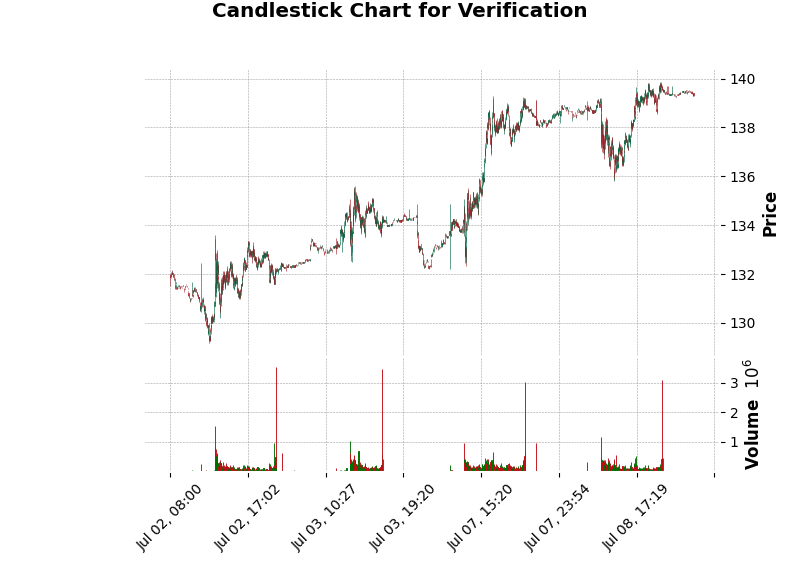
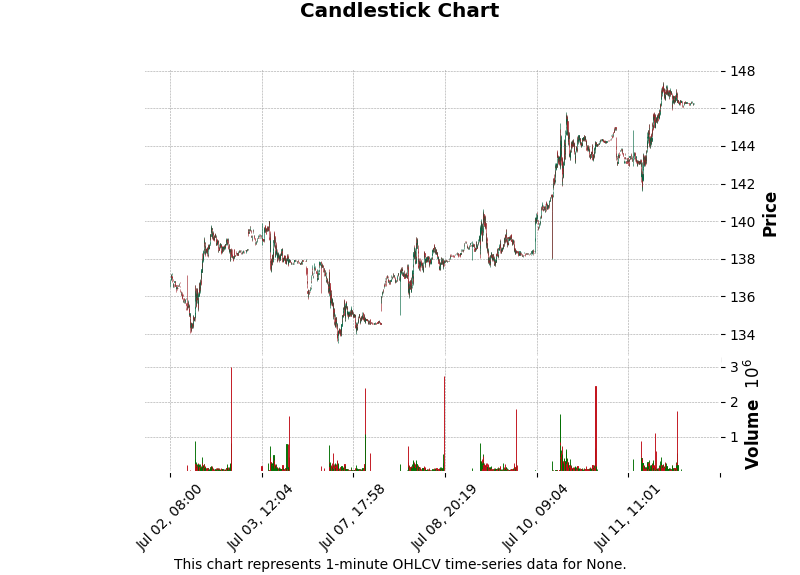
candle stick chart generation-enhanced

diff --git a/main.py b/main.py
@@ -7,6 +7,8 @@ from langchain_ollama import OllamaLLM
 from langchain.chains.sql_database.query import create_sql_query_chain
 from langchain.prompts import PromptTemplate
 import mplfinance as mpf
+import re
+
 
 # Setup LLM (Ollama with LLaMA3)
 llm = OllamaLLM(model="llama3")
@@ -20,40 +22,43 @@ engine = create_engine(DB_URI)
 SQL_PROMPT = PromptTemplate(
     input_variables=["input", "top_k", "table_info"],
     template="""You are a PostgreSQL expert. Given a natural language query about time-series financial data, generate a SQL query for a table named 'ohlcv_1m' with columns: bucket (timestamptz, start of 1-minute window), symbol (text), open (double precision), high (double precision), low (double precision), close (double precision), volume (double precision). The query should:
-    - Select bucket, open, high, low, close, volume.
-    - Filter by symbol (e.g., 'PLTR') when specified.
-    - Handle date ranges:
-        - For a single date (e.g., '2025-08-07'), include data from 00:00:00 to 23:59:59.999 on that date.
-        - For ranges like '5 days before and after', use PostgreSQL interval syntax with timestamptz.
-    - Order results by bucket ascending.
-    - Use the 'ticks' database.
-    - Limit to {top_k} rows if applicable.
-    - Assume the table contains 1-minute OHLC data, so no interval column exists.
+- Select bucket, open, high, low, close, volume.
+- Filter by symbol (e.g., 'PLTR') when specified.
+- Handle date ranges:
+    - For a single date (e.g., '2025-08-07'), include data from 00:00:00 to 23:59:59.999 on that date.
+    - For ranges like '5 days before and after', use PostgreSQL interval syntax with timestamptz.
+- Order results by bucket ascending.
+- Use the 'ticks' database.
+- Limit to {top_k} rows if applicable.
+- Assume the table contains 1-minute OHLC data, so no interval column exists.
 
-    Table info: {table_info}
+Table info: {table_info}
 
-    Query: {input}
+Query: {input}
 
-    Generate the SQL query and return only the SQL (no explanations or markdown).
+Generate the SQL query and return only the SQL (no explanations or markdown).
+Never use parameters or placeholders like $1, $2, :symbol, or :date. Always substitute actual values for symbol and date directly in the SQL. For queries like "5 days before and after", use INTERVAL arithmetic with timestamptz, e.g.:
+AND bucket >= '<date>'::timestamptz - INTERVAL '5 days'
+AND bucket < '<date>'::timestamptz + INTERVAL '6 days'
 
-    Example input: "show me data for 2025-08-07 for PLTR"
-    Example output: 
-    SELECT bucket, open, high, low, close, volume 
-    FROM ohlcv_1m 
-    WHERE symbol = 'PLTR' 
-    AND bucket >= '2025-08-07'::timestamptz 
-    AND bucket < '2025-08-08'::timestamptz 
-    ORDER BY bucket;
+Example input: "show me data for 2025-08-07 for PLTR"
+Example output: 
+SELECT bucket, open, high, low, close, volume 
+FROM ohlcv_1m 
+WHERE symbol = 'PLTR' 
+AND bucket >= '2025-08-07'::timestamptz 
+AND bucket < '2025-08-08'::timestamptz 
+ORDER BY bucket;
 
-    Example input: "Return PLTR data 5 days before and after 2025-09-10 for 1 min candles"
-    Example output: 
-    SELECT bucket, open, high, low, close, volume 
-    FROM ohlcv_1m 
-    WHERE symbol = 'PLTR' 
-    AND bucket >= '2025-09-10'::timestamptz - INTERVAL '5 days' 
-    AND bucket < '2025-09-10'::timestamptz + INTERVAL '6 days' 
-    ORDER BY bucket;
-    """
+Example input: "Return PLTR data 5 days before and after 2025-09-10 for 1 min candles"
+Example output: 
+SELECT bucket, open, high, low, close, volume 
+FROM ohlcv_1m 
+WHERE symbol = 'PLTR' 
+AND bucket >= '2025-09-10'::timestamptz - INTERVAL '5 days' 
+AND bucket < '2025-09-10'::timestamptz + INTERVAL '6 days' 
+ORDER BY bucket;
+"""
 )
 
 # Chain to generate SQL from natural language
@@ -61,39 +66,44 @@ sql_chain = create_sql_query_chain(llm, db, prompt=SQL_PROMPT)
 
 # Function to clean up generated SQL (removes markdown/code blocks if present)
 def clean_sql(sql_text):
-    if sql_text.startswith("```sql"):
-        sql_text = sql_text.split("```sql")[1]
-    if sql_text.endswith("```"):
-        sql_text = sql_text.split("```")[0]
-    sql_text = sql_text.strip()
-    # Remove LIMIT clause if present
-    import re
-    sql_text = re.sub(r'LIMIT\s+\d+\s*;?', '', sql_text, flags=re.IGNORECASE)
+    # Remove markdown/code blocks if present
+    sql_text = re.sub(r"```sql|```", "", sql_text, flags=re.IGNORECASE).strip()
+    # Remove any prefix before the actual SQL (e.g., "Generated SQL: ...")
+    # Find the first occurrence of SELECT and take everything from there
+    match = re.search(r"(SELECT[\s\S]+?;)", sql_text, re.IGNORECASE)
+    if match:
+        return match.group(1).strip()
+    # Fallback: return the original text if no SELECT found
     return sql_text.strip()
 
+def extract_symbol_from_sql(sql):
+    # Match WHERE symbol = 'SYMBOL'
+    match = re.search(r"WHERE\s+symbol\s*=\s*'([^']+)'", sql, re.IGNORECASE)
+    if match:
+        return match.group(1)
+    return None
+
 # Function to plot candlestick chart for verification
-def plot_candlestick(df, output_file="candlestick_chart.png"):
-    if not all(col in df.columns for col in ['bucket', 'open', 'high', 'low', 'close']):
-        print("Error: DataFrame must contain 'bucket', 'open', 'high', 'low', 'close' columns for plotting.")
-        return
+def plot_candlestick(df, symbol=None, description=None):
     
-    # Prepare DataFrame for mplfinance
-    df = df.copy()  # Avoid modifying original
-    df['bucket'] = pd.to_datetime(df['bucket'])
-    df.set_index('bucket', inplace=True)
-    df = df[['open', 'high', 'low', 'close', 'volume']] if 'volume' in df.columns else df[['open', 'high', 'low', 'close']]
-    
-    # Plot and save candlestick chart
-    mpf.plot(
+    # Prepare title and output file name
+    chart_title = f"Candlestick Chart for {symbol}" if symbol else "Candlestick Chart"
+    output_file = f"candlestick_chart_{symbol}.png" if symbol else "candlestick_chart.png"
+    # Prepare description text
+    desc_text = description if description else f"This chart represents 1-minute OHLCV time-series data for {symbol}."
+    # Plot and annotate
+    fig, axes = mpf.plot(
         df,
         type='candle',
-        style='charles',  # TradingView-like style
-        title='Candlestick Chart for Verification',
+        style='charles',
+        title=chart_title,
         ylabel='Price',
         volume=True if 'volume' in df.columns else False,
-        savefig=output_file
+        returnfig=True
     )
-    print(f"Candlestick chart saved to {output_file}")
+    fig.text(0.5, 0.01, desc_text, ha='center', fontsize=10)
+    fig.savefig(output_file)
+    print(f"{chart_title} saved to {output_file} with description.")
 
 def main(args=None):
     # Parse command-line arguments
@@ -106,24 +116,27 @@ def main(args=None):
     print(f"Processing query: {query}")
     
     # Generate SQL from the natural language query
-    sql = sql_chain.invoke({"question": query})  # Removed top_k
+    sql = sql_chain.invoke({"question": query}) 
     sql = clean_sql(sql)
     print(f"Generated SQL: {sql}")
+
+    # Extract symbol from SQL
+    symbol = extract_symbol_from_sql(sql)
     
     # Execute SQL and return results as Pandas DataFrame
     try:
         df = pd.read_sql(sql, engine)
-        # Convert 'bucket' to datetime if not already
         if 'bucket' in df.columns:
             df['bucket'] = pd.to_datetime(df['bucket'])
+            df = df.set_index('bucket')
         print("\nDataFrame output:")
         print(df)
         
         # Plot if --plot flag is provided
         if args.plot:
-            plot_candlestick(df)
+            plot_candlestick(df, symbol=symbol, description=query)
         
-        return df  # Return for potential service wrapper
+        return df
     except Exception as e:
         print(f"Error executing SQL: {e}")
         return
